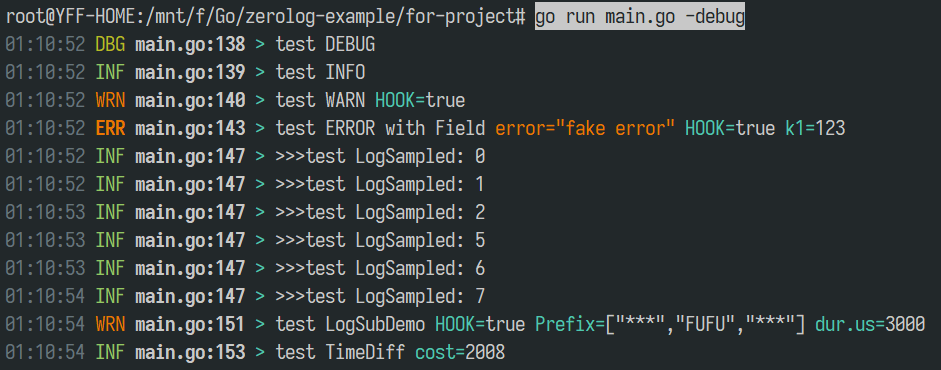
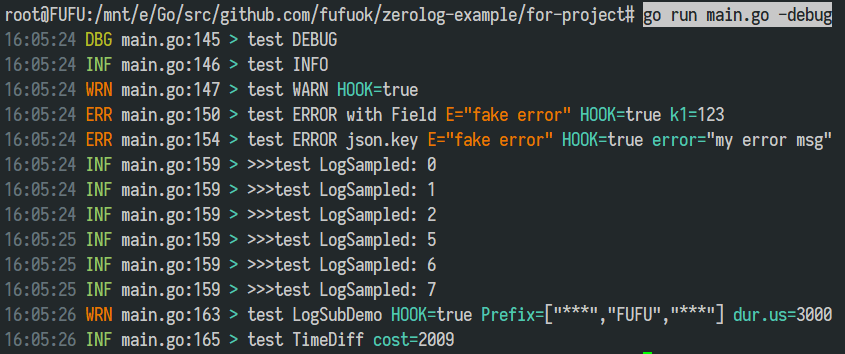
Update: Log.FieldName

Changed region(s): [[0.0, 0.0, 0.9846, 0.9944], [0.7385, 0.9944, 0.7692, 1.0]]

diff --git a/basic/basic.go b/basic/basic.go
@@ -11,6 +11,7 @@ import (
 
 	"github.com/natefinch/lumberjack"
 	"github.com/rs/zerolog"
+	"github.com/rs/zerolog/log"
 )
 
 // 示例配置
@@ -50,9 +51,7 @@ func init() {
 		os.Exit(1)
 	}
 
-	// 日志格式规范, 路径脱敏
-	zerolog.MessageFieldName = "msg"
-	zerolog.DurationFieldInteger = true
+	// 路径脱敏
 	zerolog.CallerMarshalFunc = func(file string, line int) string {
 		return filepath.Base(file) + ":" + strconv.Itoa(line)
 	}
@@ -112,6 +111,17 @@ func main() {
 
 	err := errors.New("fake error")
 	Log.Error().Err(err).Int("k1", 123).Msg("test ERROR with Field")
+
+	// 注意:
+	// 1. 文本格式时, 相同字段名会被覆盖
+	// 16:21:46 ERR basic.go:118 > test ERROR json.key error="my error msg"
+	Log.Error().Err(err).Str("error", "my error msg").Msg("test ERROR json.key")
+
+	// 2. JSON 格式时, 相同字段名不会被覆盖 (建议自定义字段名解决, 见 for-project)
+	// {"level":"error","error":"fake error","error":"my error msg",
+	// "time":"2021-04-06T16:21:46+08:00","message":"test ERROR json.key"}
+	log.Error().Err(err).Str("error", "my error msg").Msg("test ERROR json.key")
+
 	// Log.Fatal().Err(err).Send()
 
 	for i := 0; i < 10; i++ {

diff --git a/for-project/main.go b/for-project/main.go
@@ -52,8 +52,13 @@ func init() {
 		os.Exit(1)
 	}
 
-	// 日志格式规范, 路径脱敏
-	zerolog.MessageFieldName = "msg"
+	// 路径脱敏, 日志格式规范, 避免与自定义字段名冲突: {"E":"is Err(error)","error":"is Str(error)"}
+	zerolog.TimestampFieldName = "T"
+	zerolog.LevelFieldName = "L"
+	zerolog.MessageFieldName = "M"
+	zerolog.ErrorFieldName = "E"
+	zerolog.CallerFieldName = "F"
+	zerolog.ErrorStackFieldName = "S"
 	zerolog.DurationFieldInteger = true
 	zerolog.CallerMarshalFunc = func(file string, line int) string {
 		return filepath.Base(file) + ":" + strconv.Itoa(line)
@@ -143,6 +148,11 @@ func main() {
 
 	err := errors.New("fake error")
 	Log.Error().Err(err).Int("k1", 123).Msg("test ERROR with Field")
+
+	// {"L":"error","E":"fake error","error":"my error msg",
+	// "T":"2021-04-06T16:00:27+08:00","F":"main.go:153","HOOK":true,"M":"test ERROR json.key"}
+	Log.Error().Err(err).Str("error", "my error msg").Msg("test ERROR json.key")
+
 	// Log.Fatal().Err(err).Send()
 
 	for i := 0; i < 10; i++ {

diff --git a/README.md b/README.md
@@ -5,45 +5,66 @@
 ## 特征
 
 1. 开发环境时, 日志高亮输出到控制台
-2. 生产环境时, 日志输出到文件(关闭高亮, 保存最近 10 个 30 天内的日志), 并发送 JSON 日志到 ES
+2. 生产环境时, 日志输出到文件(可选关闭高亮, 保存最近 10 个 30 天内的日志), 并发送 JSON 日志到 ES
 3. 适应配置热加载时更新日志输出模式和日志级别
 
 ## 效果
 
-### 1. [for-project/main.go](for-project/main.go)
+### 1. [basic/basic.go](basic/basic.go)
+
+```shell
+16:21:46 DBG basic.go:108 > test DEBUG
+16:21:46 INF basic.go:109 > test INFO
+16:21:46 WRN basic.go:110 > test WARN
+16:21:46 ERR basic.go:113 > test ERROR with Field error="fake error" k1=123
+16:21:46 ERR basic.go:118 > test ERROR json.key error="my error msg"
+{"level":"error","error":"fake error","error":"my error msg","time":"2021-04-06T16:21:46+08:00","message":"test ERROR json.key"}
+16:21:46 INF basic.go:127 > >>>test LogSampled: 0
+16:21:46 INF basic.go:127 > >>>test LogSampled: 1
+16:21:46 INF basic.go:127 > >>>test LogSampled: 2
+16:21:47 INF basic.go:127 > >>>test LogSampled: 5
+16:21:47 INF basic.go:127 > >>>test LogSampled: 6
+16:21:47 INF basic.go:127 > >>>test LogSampled: 7
+16:21:48 WRN basic.go:131 > test LogSubDemo Prefix=["***","FUFU","***"] dur.us=3000
+16:21:48 INF basic.go:133 > test TimeDiff cost=2009.8041
+```
+
+### 2. [for-project/main.go](for-project/main.go)
 
 ![debug](for-project/debug.png)
 
 ```shell
-# go run main.go
-__TO_ES_:{"level":"debug","time":"2021-04-05T01:10:58+08:00","caller":"main.go:138","msg":"test DEBUG"}
-__TO_ES_:{"level":"info","time":"2021-04-05T01:10:58+08:00","caller":"main.go:139","msg":"test INFO"}
-__TO_ES_:{"level":"warn","time":"2021-04-05T01:10:58+08:00","caller":"main.go:140","HOOK":true,"msg":"test WARN"}
-__TO_ES_:{"level":"error","error":"fake error","k1":123,"time":"2021-04-05T01:10:58+08:00","caller":"main.go:143","HOOK":true,"msg":"test ERROR with Field"}
-__TO_ES_:{"level":"info","time":"2021-04-05T01:10:58+08:00","caller":"main.go:147","msg":">>>test LogSampled: 0"}
-__TO_ES_:{"level":"info","time":"2021-04-05T01:10:58+08:00","caller":"main.go:147","msg":">>>test LogSampled: 1"}
-__TO_ES_:{"level":"info","time":"2021-04-05T01:10:58+08:00","caller":"main.go:147","msg":">>>test LogSampled: 2"}
-__TO_ES_:{"level":"info","time":"2021-04-05T01:10:59+08:00","caller":"main.go:147","msg":">>>test LogSampled: 5"}
-__TO_ES_:{"level":"info","time":"2021-04-05T01:10:59+08:00","caller":"main.go:147","msg":">>>test LogSampled: 6"}
-__TO_ES_:{"level":"info","time":"2021-04-05T01:10:59+08:00","caller":"main.go:147","msg":">>>test LogSampled: 7"}
-__TO_ES_:{"level":"warn","Prefix":["***","FUFU","***"],"dur.us":3000,"time":"2021-04-05T01:11:00+08:00","caller":"main.go:151","HOOK":true,"msg":"test LogSubDemo"}
-__TO_ES_:{"level":"info","cost":2010,"time":"2021-04-05T01:11:00+08:00","caller":"main.go:153","msg":"test TimeDiff"}
+# go run main.go -nocolor
+__TO_ES_:{"L":"debug","T":"2021-04-06T16:05:14+08:00","F":"main.go:145","M":"test DEBUG"}
+__TO_ES_:{"L":"info","T":"2021-04-06T16:05:14+08:00","F":"main.go:146","M":"test INFO"}
+__TO_ES_:{"L":"warn","T":"2021-04-06T16:05:14+08:00","F":"main.go:147","HOOK":true,"M":"test WARN"}
+__TO_ES_:{"L":"error","E":"fake error","k1":123,"T":"2021-04-06T16:05:14+08:00","F":"main.go:150","HOOK":true,"M":"test ERROR with Field"}
+__TO_ES_:{"L":"error","E":"fake error","error":"my error msg","T":"2021-04-06T16:05:14+08:00","F":"main.go:154","HOOK":true,"M":"test ERROR json.key"}
+__TO_ES_:{"L":"info","T":"2021-04-06T16:05:14+08:00","F":"main.go:159","M":">>>test LogSampled: 0"}
+__TO_ES_:{"L":"info","T":"2021-04-06T16:05:14+08:00","F":"main.go:159","M":">>>test LogSampled: 1"}
+__TO_ES_:{"L":"info","T":"2021-04-06T16:05:15+08:00","F":"main.go:159","M":">>>test LogSampled: 2"}
+__TO_ES_:{"L":"info","T":"2021-04-06T16:05:15+08:00","F":"main.go:159","M":">>>test LogSampled: 5"}
+__TO_ES_:{"L":"info","T":"2021-04-06T16:05:15+08:00","F":"main.go:159","M":">>>test LogSampled: 6"}
+__TO_ES_:{"L":"info","T":"2021-04-06T16:05:16+08:00","F":"main.go:159","M":">>>test LogSampled: 7"}
+__TO_ES_:{"L":"warn","Prefix":["***","FUFU","***"],"dur.us":3000,"T":"2021-04-06T16:05:16+08:00","F":"main.go:163","HOOK":true,"M":"test LogSubDemo"}
+__TO_ES_:{"L":"info","cost":2013,"T":"2021-04-06T16:05:16+08:00","F":"main.go:165","M":"test TimeDiff"}
 ```
 
 ```shell
 # cat app-ff.log
-01:10:58 DBG main.go:138 > test DEBUG
-01:10:58 INF main.go:139 > test INFO
-01:10:58 WRN main.go:140 > test WARN HOOK=true
-01:10:58 ERR main.go:143 > test ERROR with Field error="fake error" HOOK=true k1=123
-01:10:58 INF main.go:147 > >>>test LogSampled: 0
-01:10:58 INF main.go:147 > >>>test LogSampled: 1
-01:10:58 INF main.go:147 > >>>test LogSampled: 2
-01:10:59 INF main.go:147 > >>>test LogSampled: 5
-01:10:59 INF main.go:147 > >>>test LogSampled: 6
-01:10:59 INF main.go:147 > >>>test LogSampled: 7
-01:11:00 WRN main.go:151 > test LogSubDemo HOOK=true Prefix=["***","FUFU","***"] dur.us=3000
-01:11:00 INF main.go:153 > test TimeDiff cost=2010
+16:05:14 DBG main.go:145 > test DEBUG
+16:05:14 INF main.go:146 > test INFO
+16:05:14 WRN main.go:147 > test WARN HOOK=true
+16:05:14 ERR main.go:150 > test ERROR with Field E="fake error" HOOK=true k1=123
+16:05:14 ERR main.go:154 > test ERROR json.key E="fake error" HOOK=true error="my error msg"
+16:05:14 INF main.go:159 > >>>test LogSampled: 0
+16:05:14 INF main.go:159 > >>>test LogSampled: 1
+16:05:15 INF main.go:159 > >>>test LogSampled: 2
+16:05:15 INF main.go:159 > >>>test LogSampled: 5
+16:05:15 INF main.go:159 > >>>test LogSampled: 6
+16:05:16 INF main.go:159 > >>>test LogSampled: 7
+16:05:16 WRN main.go:163 > test LogSubDemo HOOK=true Prefix=["***","FUFU","***"] dur.us=3000
+16:05:16 INF main.go:165 > test TimeDiff cost=2013
 ```
 
 
